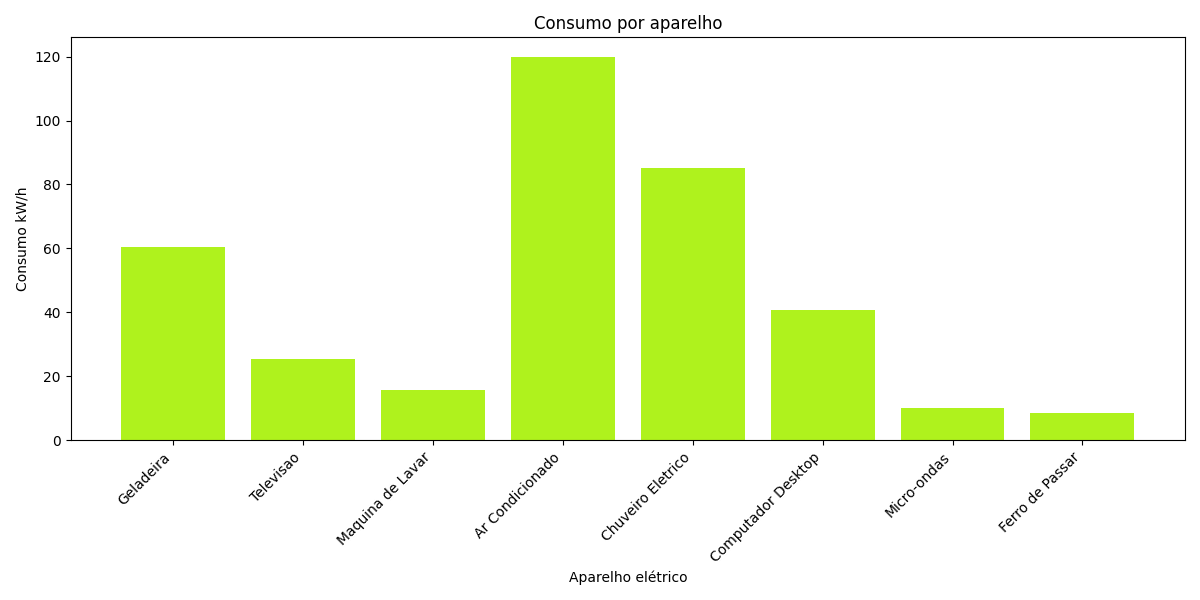
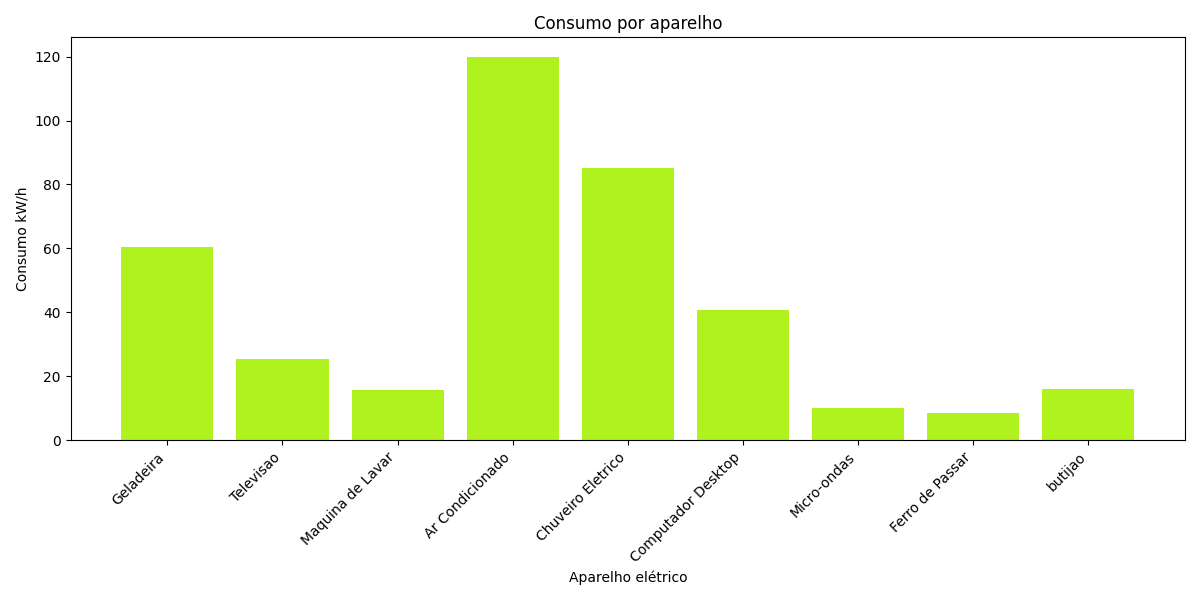
feat: conexao do grafico com o frontend

diff --git a/FrontEnd/src/App.jsx b/FrontEnd/src/App.jsx
@@ -1,21 +1,61 @@
-import React from 'react';
-import { BrowserRouter as Router, Routes, Route } from 'react-router-dom';
+import React, { useState } from "react";
 
-import SignupForm from './pages/SignupForm.jsx'; 
-import Dashboard from './pages/Dashboard'; 
+function Dashboard() {
+  const [aparelho, setAparelho] = useState("");
+  const [consumo, setConsumo] = useState("");
+  const [mensagem, setMensagem] = useState("");
 
-function App() {
+  const enviarDados = async () => {
+    try {
+      const response = await fetch("http://localhost:8000/atualizar", {
+        method: "POST",
+        headers: { "Content-Type": "application/json" },
+        body: JSON.stringify({
+          aparelho: aparelho,
+          consumo: parseFloat(consumo)
+        })
+      });
+
+      const data = await response.json();
+      console.log("Retorno da API:", data);
+
+      setMensagem("Dados enviados com sucesso!");
+    } catch (error) {
+      console.error("Erro ao enviar:", error);
+      setMensagem("Erro ao enviar dados.");
+    }
+  };
+
   return (
-    <Router>
-      <Routes>
-        {/* Rota Raiz (Login) */}
-        <Route path="/" element={<SignupForm />} />
+    <div style={{ padding: "20px" }}>
+      <h1>Painel de Controle</h1>
+
+      <input
+        type="text"
+        placeholder="Nome do aparelho"
+        value={aparelho}
+        onChange={(e) => setAparelho(e.target.value)}
+      />
+
+      <input
+        type="number"
+        placeholder="Consumo (kWh)"
+        value={consumo}
+        onChange={(e) => setConsumo(e.target.value)}
+      />
+
+      <button onClick={enviarDados}>Enviar para o Gráfico</button>
+
+      {mensagem && <p>{mensagem}</p>}
+
+      <img 
         
-        {/* Rota do Painel (Gráfico) */}
-        <Route path="/dashboard" element={<Dashboard />} />
-      </Routes>
-    </Router>
+        src={`http://localhost:8000/static/grafico_aparelhos.png?${Date.now()}`}
+        alt="Gráfico"
+        style={{ marginTop: "20px", width: "80%", borderRadius: "10px" }}
+      />
+    </div>
   );
 }
 
-export default App;
+export default Dashboard;

diff --git a/backend/analise_csv.py b/backend/analise_csv.py
@@ -1,4 +1,4 @@
-from mangaba import Agent, Task, Crew, Process
+from mangaba import Agent, Task, Crew, Process, MangabaAgent
 
 csv_analyst = Agent(
     role="CSV Data Analyst",
@@ -8,13 +8,23 @@ csv_analyst = Agent(
 )
 
 analyze_csv_task = Task(
-    description="Analisar o arquivo CSV gerado, calcular totais, médias e identificar insights.",
+    description=f"Analisar o arquivo CSV gerado, calcular totais, médias e identificar insights {arquivo}",
     expected_output="Relatório detalhado sobre os dados do CSV.",
     agent=csv_analyst,
     context=[create_csv_task],  # usa como contexto o CSV criado
     output_file="analiseEletrico_csv.pdf"
 )
 
+crew_analise= Crew(
+    agents=[csv_analyst],
+    tasks=[analyze_csv_task],
+    process=Process.SEQUENTIAL,
+    verbose=True
+)
+
+result_ana = crew_analise.kickoff()
+print(result_ana.final_output)
+
 agent = MangabaAgent()
-text = "A inteligência artificial está transformando o mundo."
-analysis = agent.analyze_text(text, "Faça uma análise detalhada")
+arquivo = "A inteligência artificial está transformando o mundo."
+analysis = agent.analyze_text(arquivo, "Faça uma análise detalhada")

diff --git a/backend/main.py b/backend/main.py
@@ -1,11 +1,15 @@
 from fastapi import FastAPI
 from pydantic import BaseModel
 from fastapi.middleware.cors import CORSMiddleware
+from fastapi.staticfiles import StaticFiles
+
 
 from graficos import criar_linha, adicionar_linha_no_csv, plota_grafico, arquivo
 
 app = FastAPI()
 
+
+app.mount("/static", StaticFiles(directory="."), name="static")
 class AttGrafico(BaseModel):
     aparelho: str
     consumo: float
